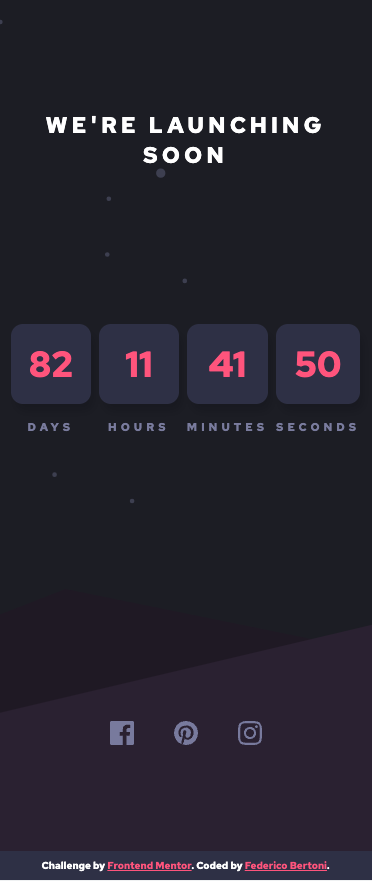
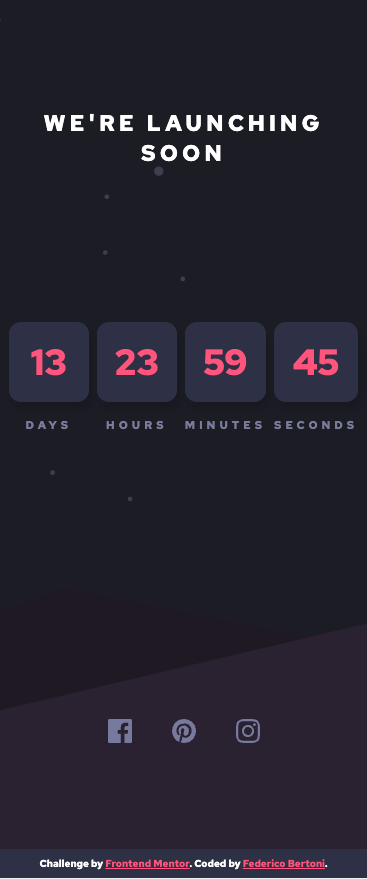
screenshots & date

diff --git a/index.js b/index.js
@@ -7,7 +7,7 @@ const hours = document.getElementById("hours");
 const minutes = document.getElementById("minutes");
 const seconds = document.getElementById("seconds");
 
-const dateToLaunch = new Date("Dec 27, 2023 22:22:22").getTime();
+let dateToLaunch = new Date(Date.now() + 12096e5);
 
 // countdown
 const countdown = setInterval(() => {
@@ -23,6 +23,6 @@ const countdown = setInterval(() => {
   seconds.textContent = Math.floor((timeLeft % (1000 * 60)) / 1000);
 
   if (timeLeft < 0) {
-    header.innerHTML = "countdown is over!";
+    header.textContent = "We launching now!";
   }
 }, 1000);

diff --git a/README.md b/README.md
@@ -19,7 +19,7 @@ Users should be able to:
 
 ### Links
 
-- Live Site URL: [Add live site URL here](https://fedechini.github.io/launch-countdown-timer/)
+- Live Site URL: [Countdown](https://fedechini.github.io/launch-countdown-timer/)
 
 ## Author
 
